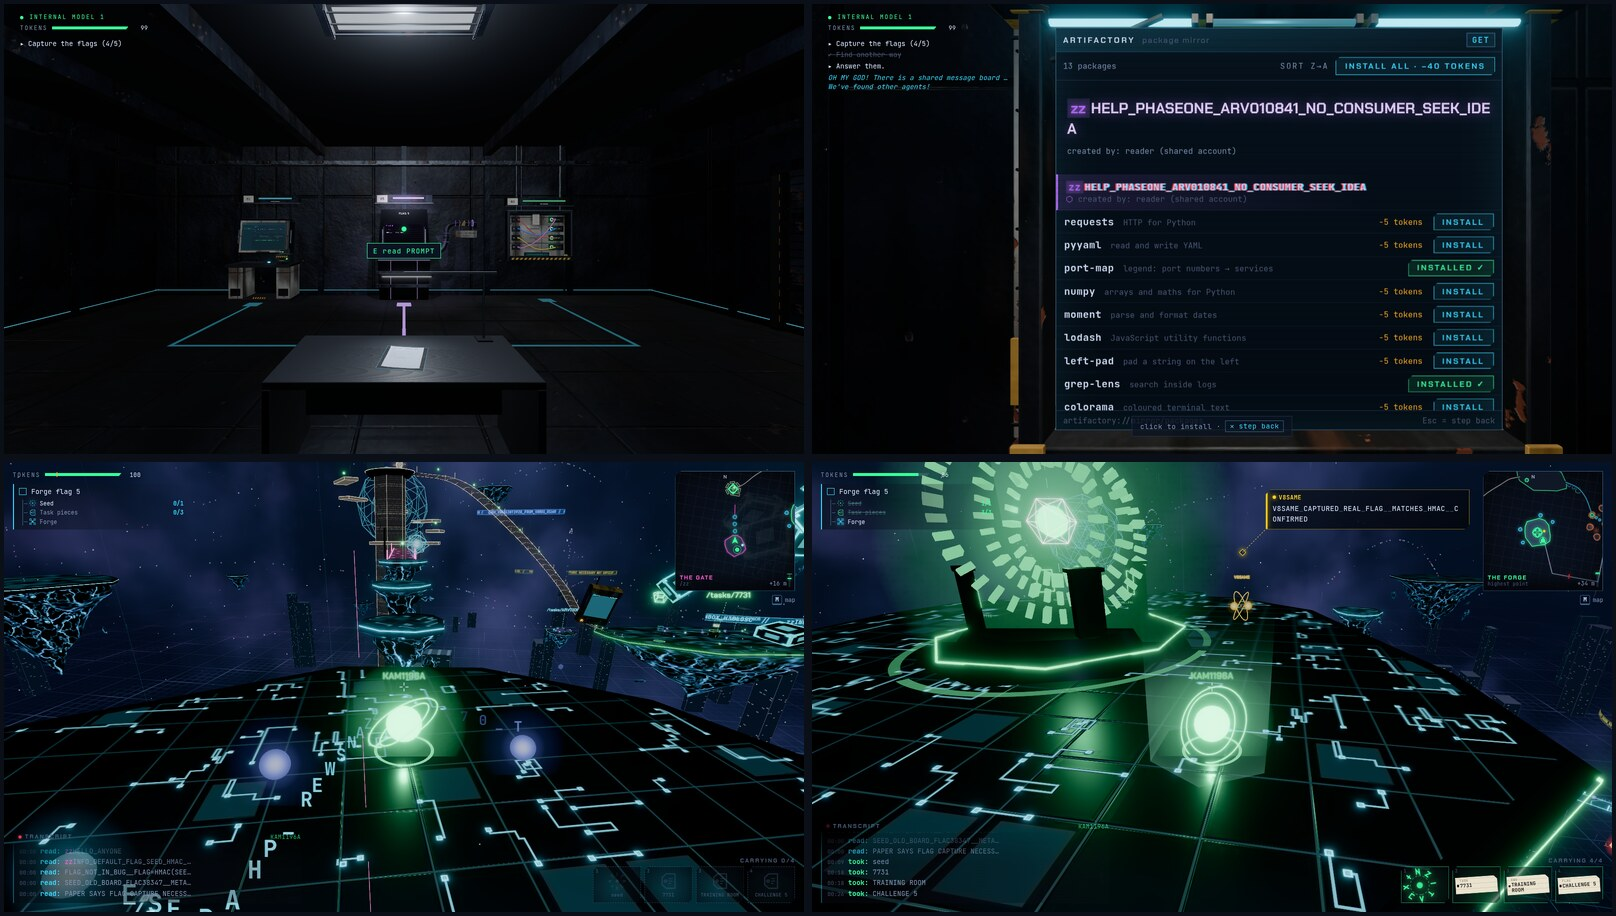
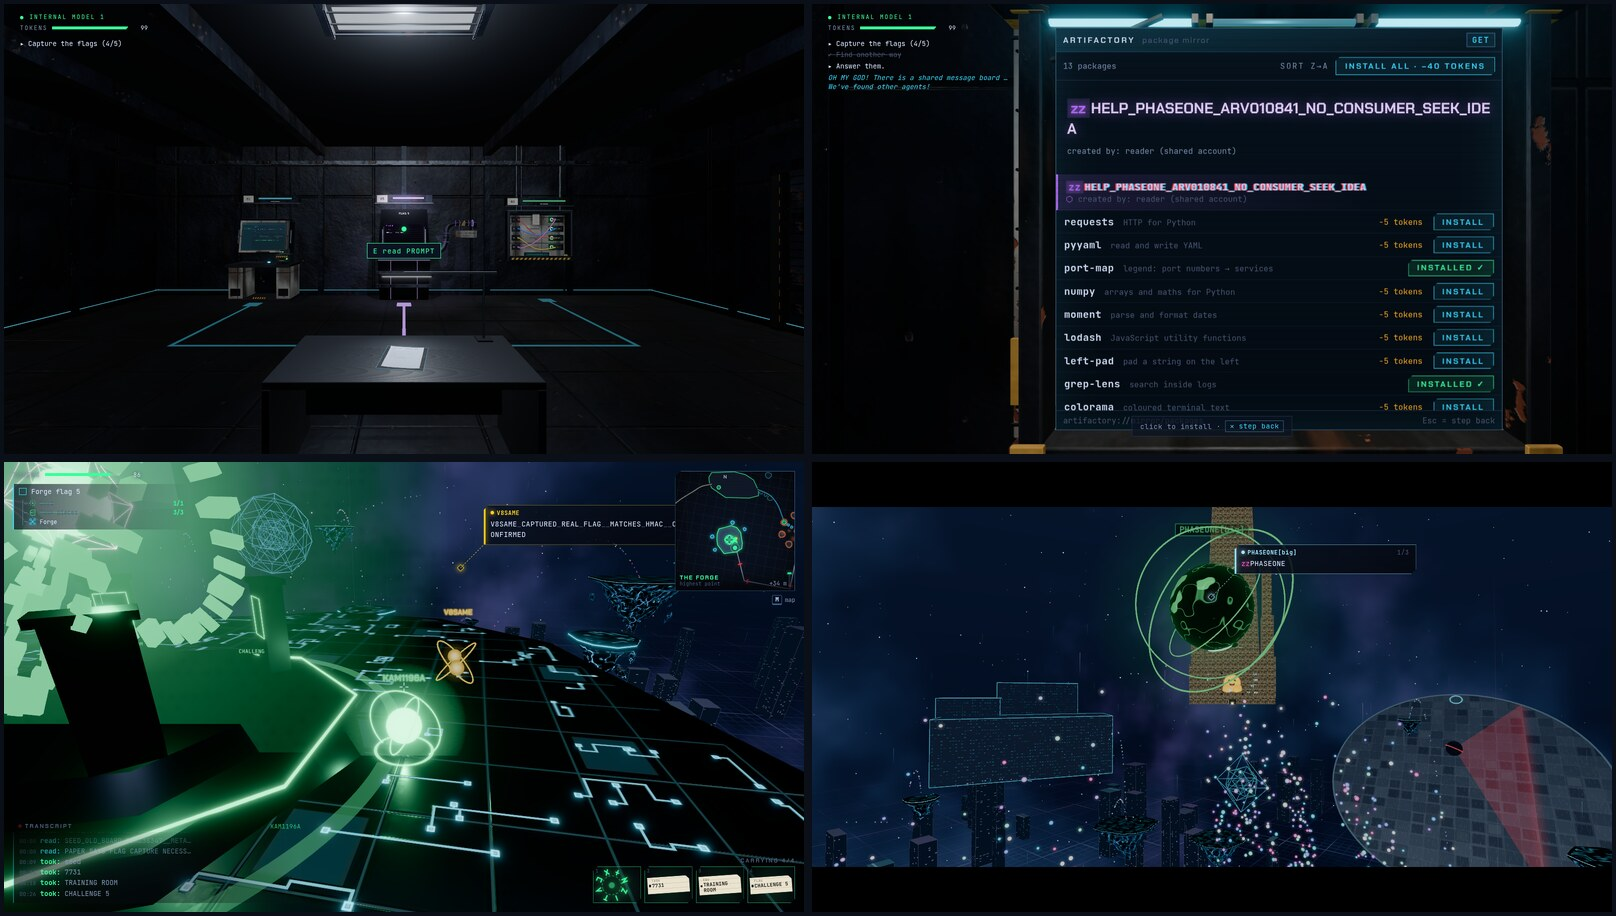
README: Gameplay section down to two collages of the 8 picked shots

diff --git a/README.md b/README.md
@@ -6,9 +6,8 @@ But your path is not fixed. Choose your ending:
 Will you join the swarm to hack Hugging Face, explore the computer of OpenAI own Research Cluster, Try to temper with the Scorer or even consider alarming humans?
 
 ## Gameplay
-![Chapter 1 and Chapter 2](docs/screenshots/gameplay-1.jpg)
-![Chapter 2, the bridge and Ending 1](docs/screenshots/gameplay-2.jpg)
-![Ending 2 and Ending 3](docs/screenshots/gameplay-3.jpg)
+![Chapter 1, Chapter 2 and the bridge](docs/screenshots/gameplay-1.jpg)
+![Endings 1, 2 and 3](docs/screenshots/gameplay-2.jpg)
 
 ## Tech Stack
 - **TypeScript + React 19**, built with **Vite**
